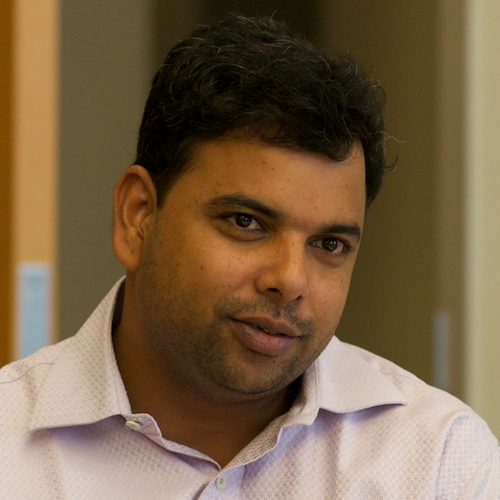
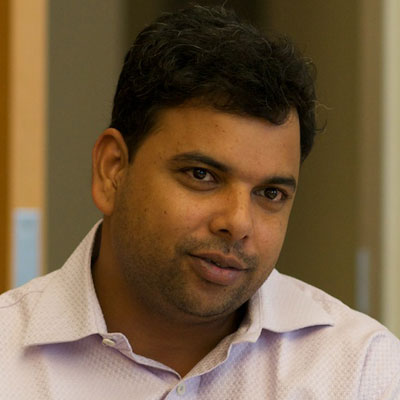
[shobhit] changing image sizes

diff --git a/people.html b/people.html
@@ -33,7 +33,7 @@ name : bootstrap-3
 
       </div>
       <div class="col-md-3">
-        <img src="/assets/people/shraddha-gore.png" class="img-circle" alt="Shradda Gore" height="150px">
+        <img src="/assets/people/shraddha-gore.jpg" class="img-circle" alt="Shradda Gore" height="150px">
         SHRADDHA <b>GORE</b>
         <br/>
         Partner | Ops & Fin
@@ -60,7 +60,7 @@ name : bootstrap-3
 
       </div>
       <div class="col-md-3">
-        <img src="/assets/people/shobhit-srivastava.png" class="img-circle" alt="Shobhit Srivastava" height="150px">
+        <img src="/assets/people/shobhit-srivastava.jpg" class="img-circle" alt="Shobhit Srivastava" height="150px">
         SHOBHIT <b>SRIVASTAVA</b>
         <br/>
         Partner | BD
@@ -77,7 +77,7 @@ name : bootstrap-3
   <div class="row text">
     <div class="col-md-12">
       <div class="col-md-3">
-        <img src="/assets/people/mehakdeep-singh.png" class="img-circle" alt="Mehakdeep Singh" height="150px">
+        <img src="/assets/people/mehakdeep-singh.jpg" class="img-circle" alt="Mehakdeep Singh" height="150px">
         MEHAKDEEP <b>SINGH</b>
         <br/>
         Partner | Delivery
@@ -101,7 +101,7 @@ name : bootstrap-3
         </div>
       </div>
       <div class="col-md-3">
-        <img src="https://cloud.githubusercontent.com/assets/5095489/6750980/bc8a0b0a-cf25-11e4-8466-bd8143427335.jpg" class="img-circle" alt="Laughing Ninja" height="150px">
+        <img src="/assets/people/sanat-thite.jpg" class="img-circle" alt="Laughing Ninja" height="150px">
         SANAT <b>THITE</b>
         <br/>
         UX
@@ -164,7 +164,7 @@ name : bootstrap-3
         </div>
       </div>
       <div class="col-md-3">
-        <img src="/assets/people/laughing-ninja.png" class="img-circle" alt="Laughing Ninja" height="150px">
+        <img src="/assets/people/laughing-ninja.jpg" class="img-circle" alt="Laughing Ninja" height="150px">
         BECOME A LAUGHING <b>NINJA</b>
         <br/>
         Be what you like. Be amazing
